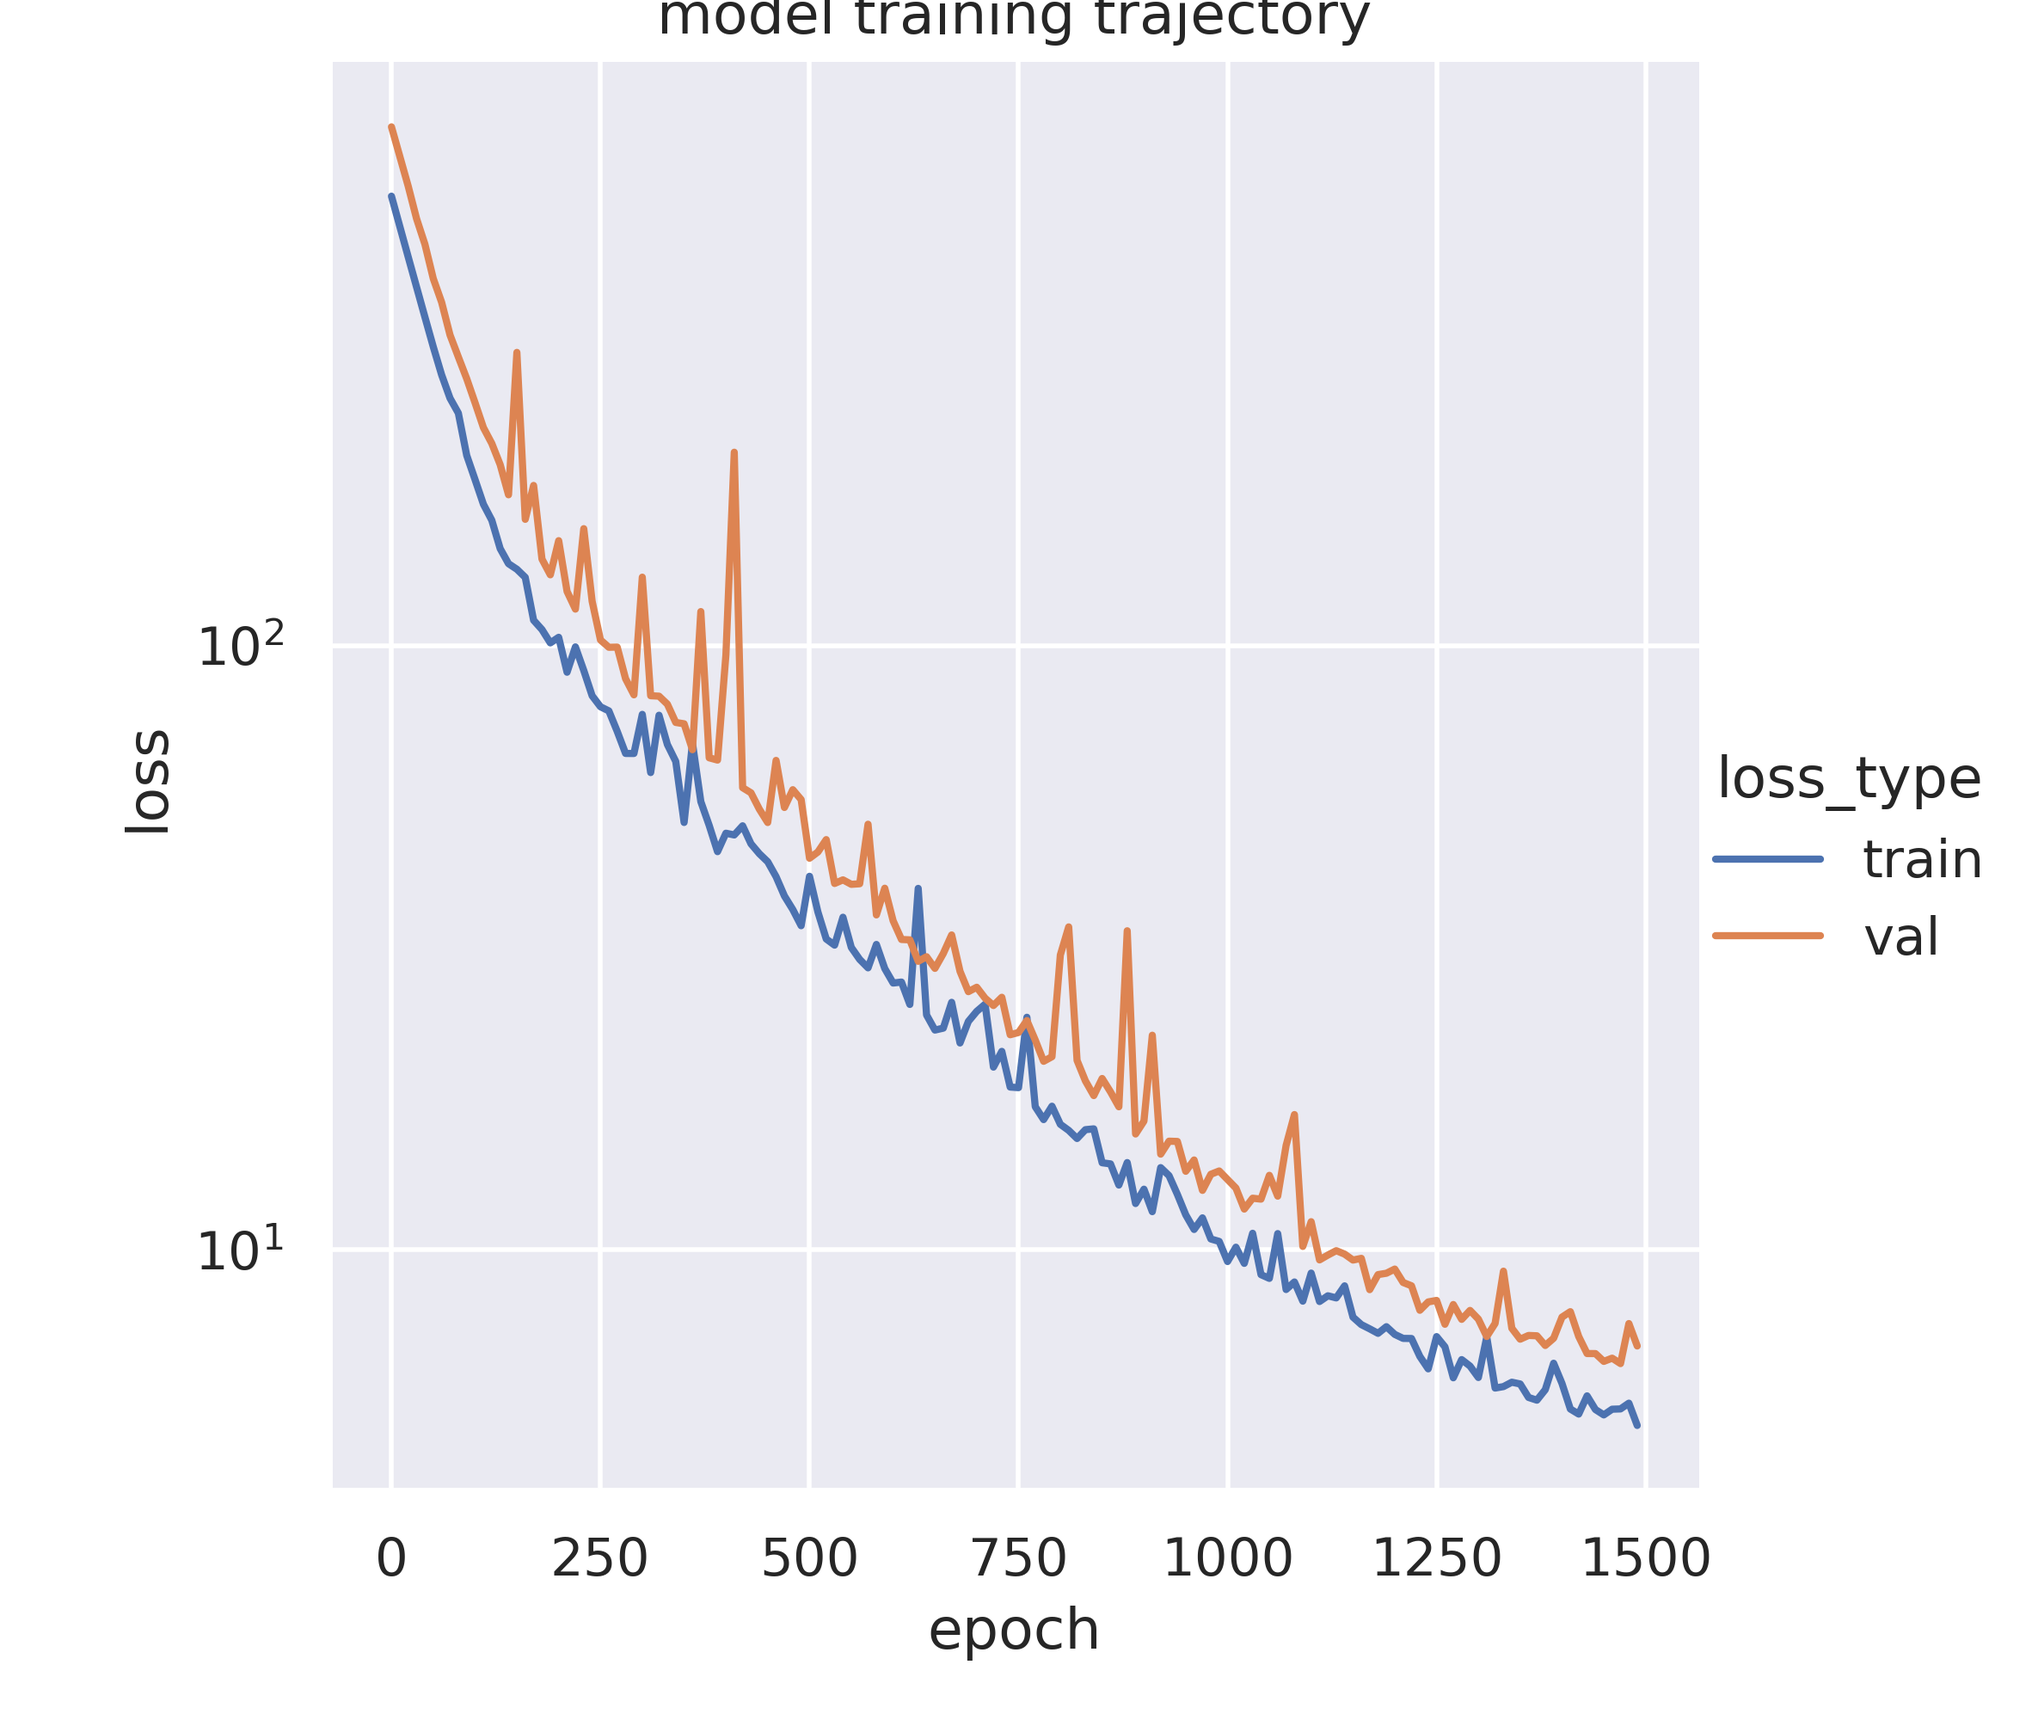
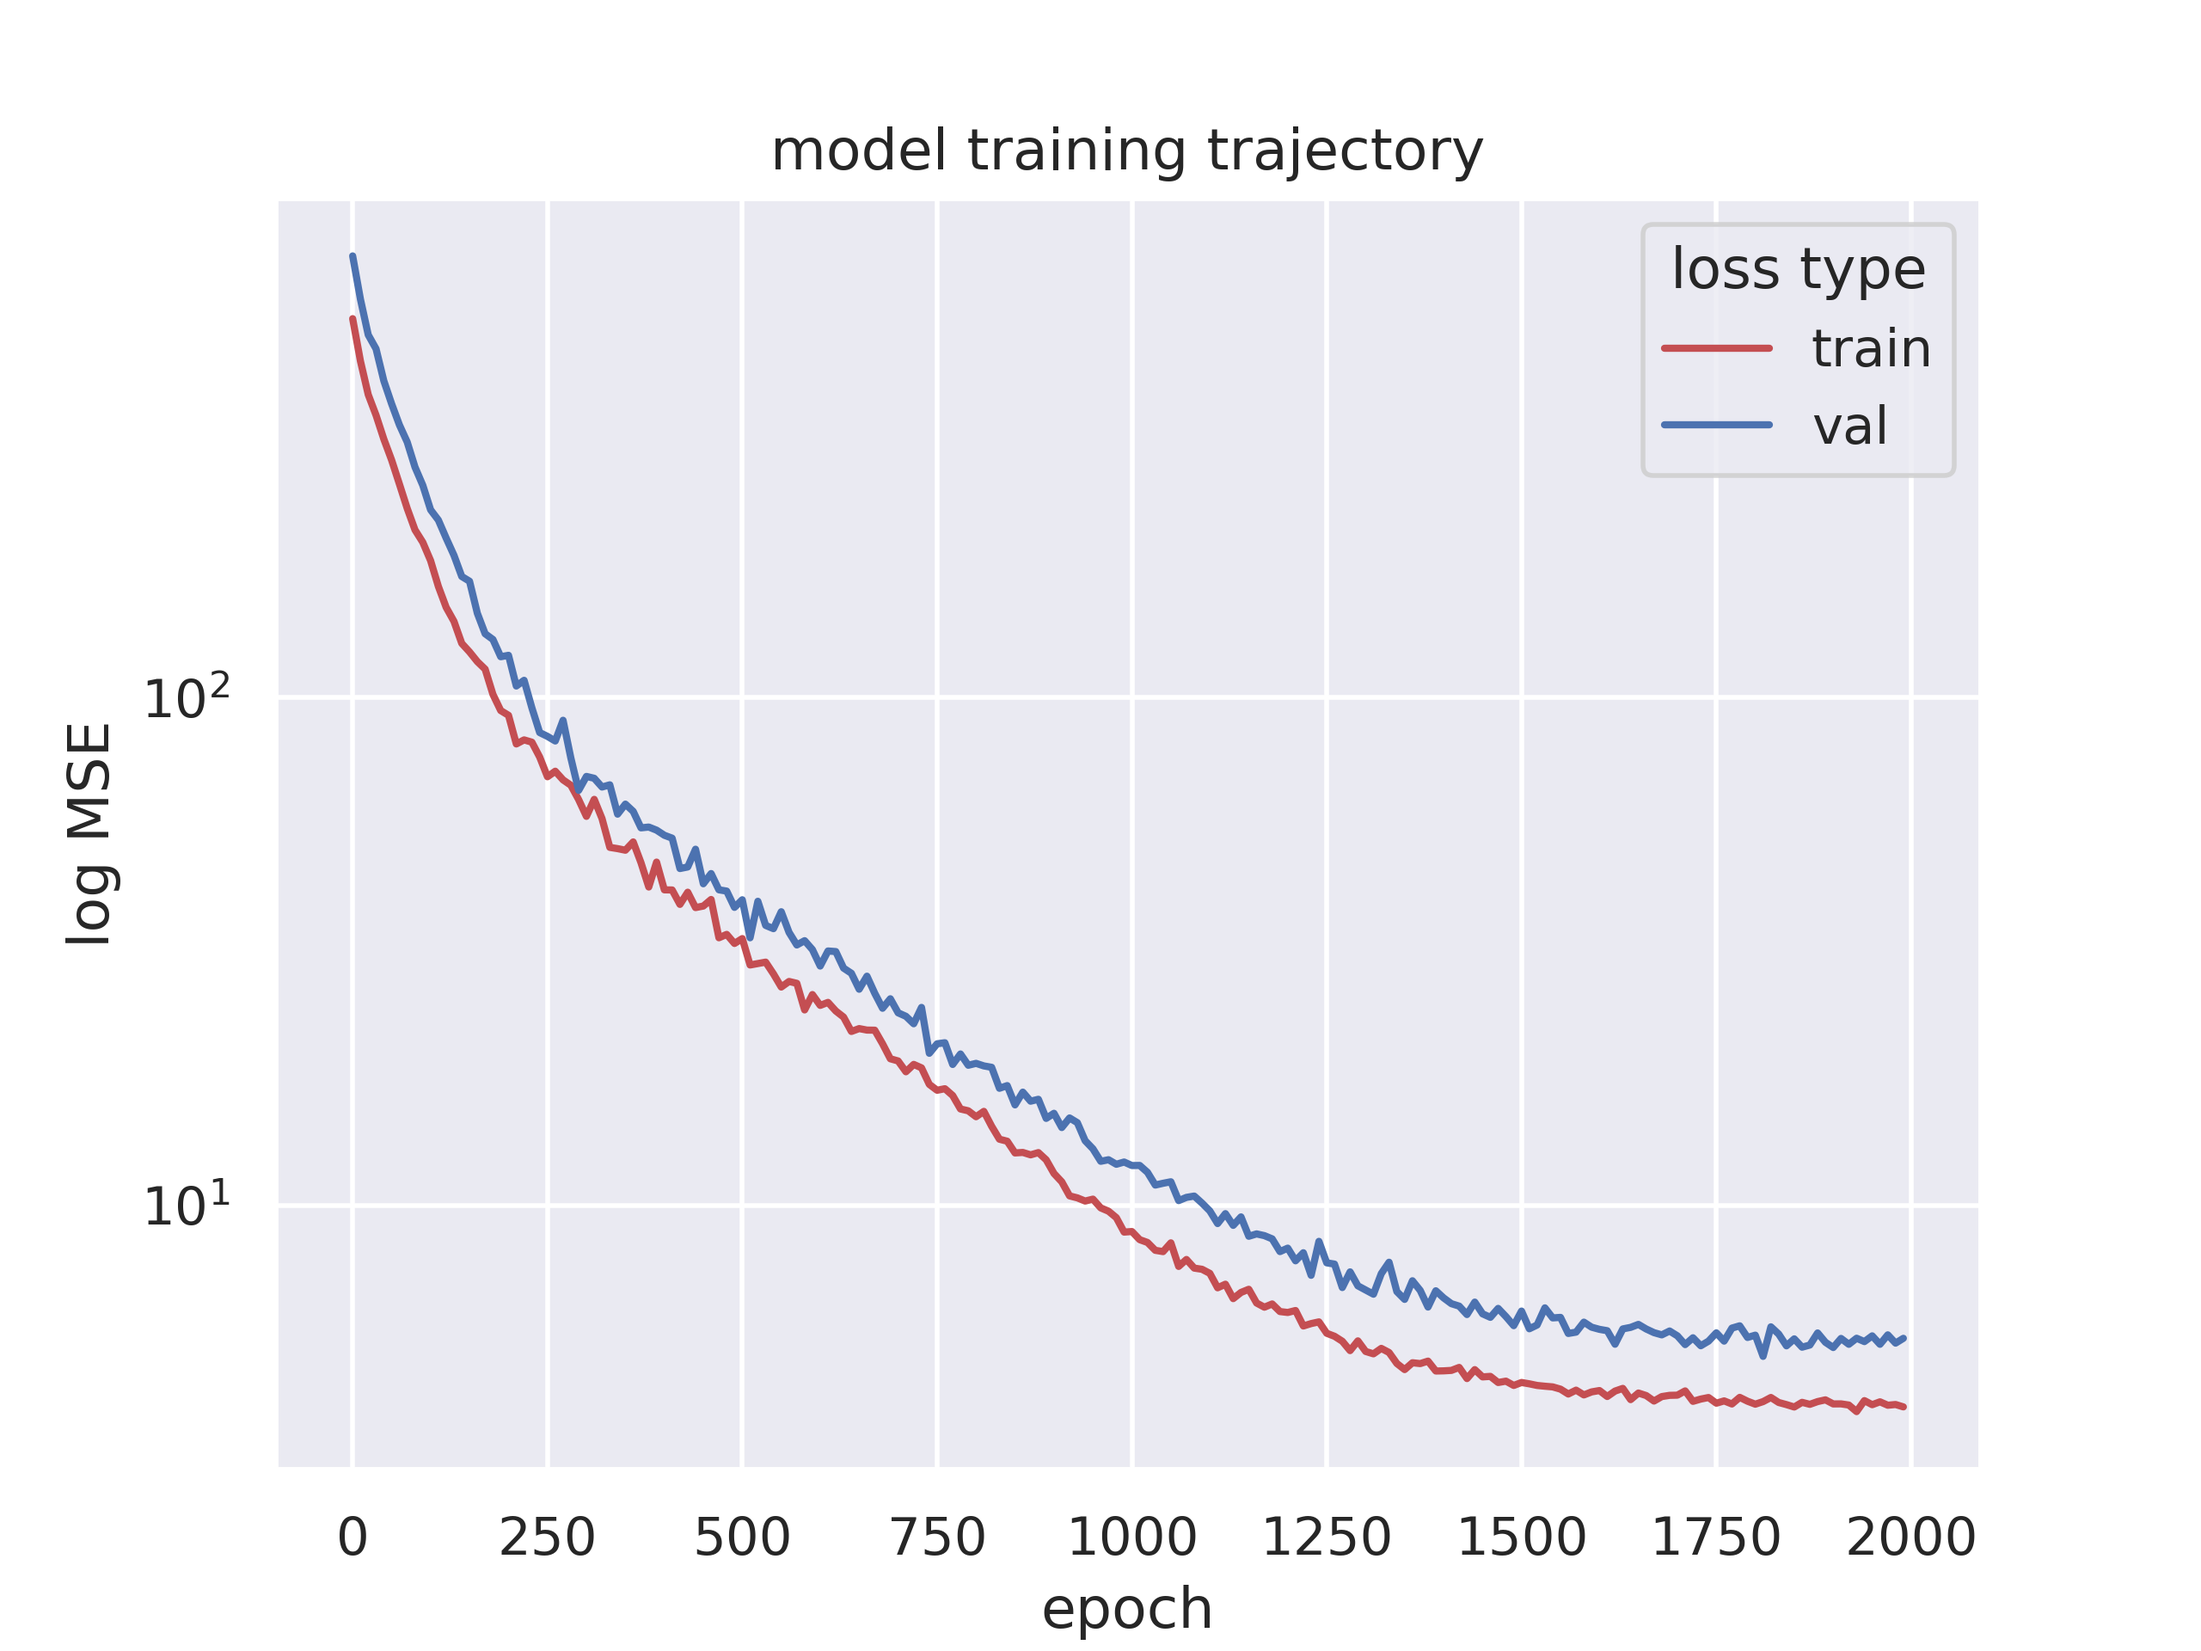
final run with 2000 epochs

diff --git a/plot.py b/plot.py
@@ -8,43 +8,41 @@ from hyperparams import hyperparams
 sns.set_theme()
 
 def loss_plot(model_type):
-    plt.subplots_adjust(top=.8)
-    loss_df = pd.read_csv(loss_file(model_type), index_col=0)
-    loss_df = loss_df.melt('epoch', var_name='loss_type', value_name='loss')
-    loss_plot = sns.relplot(data=loss_df, x='epoch', y='loss', hue='loss_type', kind='line').set(title=f"{model_type} training trajectory")
+    '''
+    Plot the trajectory of a model's training from a dataframe that has train/val loss at each epoch. 
+    '''
     plt.yscale('log')
-    loss_plot.fig.savefig(f'plots/{model_type}_loss.png', dpi=400)
+    loss_df = pd.read_csv(loss_file(model_type), index_col=0)
+    plt.plot(loss_df['epoch'], loss_df['train'], '-r', label='train')
+    plt.plot(loss_df['epoch'], loss_df['val'], '-b', label='val')
+    plt.legend(loc='upper right', title='loss type')
+    plt.yscale('log')
+    plt.ylabel('log MSE')
+    plt.xlabel('epoch')
+    plt.title(f'{model_type} training trajectory')
+    plt.savefig(f'plots/{model_type}_loss.png', dpi=400)
     plt.close(plt.gcf())
 
 def pred_plot(preds_df, title, out_file, max_x, max_y):
+    '''
+    Given a DataFrame that has ground truth and predicted values, plot a scatter
+    of true vs. predicted values. Force scaling via max_x and max_y s.t. we have
+    a series of plots with the same axes. Also plot line showing a hypothetical perfect
+    model's prediction.
+    '''
     print(f"Making rediction plot at {out_file}...", end='')
-    # make limits nicely surround points
-    plt.plot([0, max_x], [0, max_x], color='red', zorder=1)
-    plt.scatter(preds_df['ground_truth'], preds_df['prediction'], s=.7, zorder=2)
+    plt.yscale('linear') # re-set to linear axis (data is already log-ed)
+    plt.plot([0, max_x], [0, max_x], color='red', zorder=1) # place behind points
+    plt.scatter(preds_df['ground_truth'], preds_df['prediction'], s=.7, zorder=2) # place in front of line
     plt.subplots_adjust(left=0.15, top=0.9) # prevent x-label and title from getting cut off
-    #preds_plot.set(xscale='log', yscale='log') # large spread in values
     plt.xlabel('actual log_GDP')
     plt.ylabel('predicted log_GDP') # label axes
     plt.xlim((0, max_x))
     plt.ylim((0, max_y))
     plt.title(title)
-    #plt.tight_layout()
     plt.savefig(out_file, dpi=400)
     plt.close(plt.gcf())
     print("done!")
-
-def hyperparams_plot(model_type):
-    """
-    Plots the loss of a model given a particular set of hyperparameters.
-    Useful for validation.
-    """
-
-    sweep_df = pd.read_csv(f'results/{model_type}_hyperparams.csv', index_col=0)
-    sweep_plot = sns.relplot(data=sweep_df, x='lr', y='val_loss')
-    sweep_plot.set(title=f"{model_type} hyperparameter sweep")
-    sweep_plot.set(ylim=(1e23, 1e25))
-    sweep_plot.fig.savefig(f'plots/{model_type}_sweep.png', dpi=400)
-    plt.close(plt.gcf())
 
 def compare_baseline_to_model():
     baseline_loss = pd.read_csv(loss_file('baseline'), index_col=0)
@@ -59,23 +57,21 @@ def compare_baseline_to_model():
     plt.tight_layout()
     loss_plot.fig.savefig(f'plots/comparison_loss.png', dpi=400)
 
-
+# Now, make the plots!
 compare_baseline_to_model()
-
 for model_type in ['baseline', 'model']:
     epoch_range = range(0, hyperparams['n_epochs'] + 1, hyperparams['save_model_interval'])
+
+    # read in all the prediction files
     dfs = [(e, pd.read_csv(preds_file(model_type, e), index_col=0)) for e in epoch_range]
+
+    # get limits such that every model's predictions < max_y and every model's ground_truth < max_x
     max_y = max([df[['prediction']].max().values.max() for _, df in dfs])
     max_x = max([df[['ground_truth']].max().values.max() for _, df in dfs])
-    max_y *= 1.1 # don't cut off values
-    max_x *= 1.1 # don't cut off values
+
+    # give some breathing room so that axes don't cut off points
+    max_y *= 1.05
+    max_x *= 1.05
     for e, df in dfs:
         pred_plot(df, f"{model_type} on test data after {e} epochs", preds_plot_file(model_type, e), max_x, max_y)
-
     loss_plot(model_type)
-
-    
-
-
-
-

diff --git a/hyperparams.py b/hyperparams.py
@@ -3,6 +3,6 @@ hyperparams = {
     'save_loss_interval' : 10, 
     'print_interval' : 50,
     'save_model_interval' : 250,
-    'n_epochs' : 1500,
+    'n_epochs' : 2000,
     'learning_rate' : 0.01
 }
